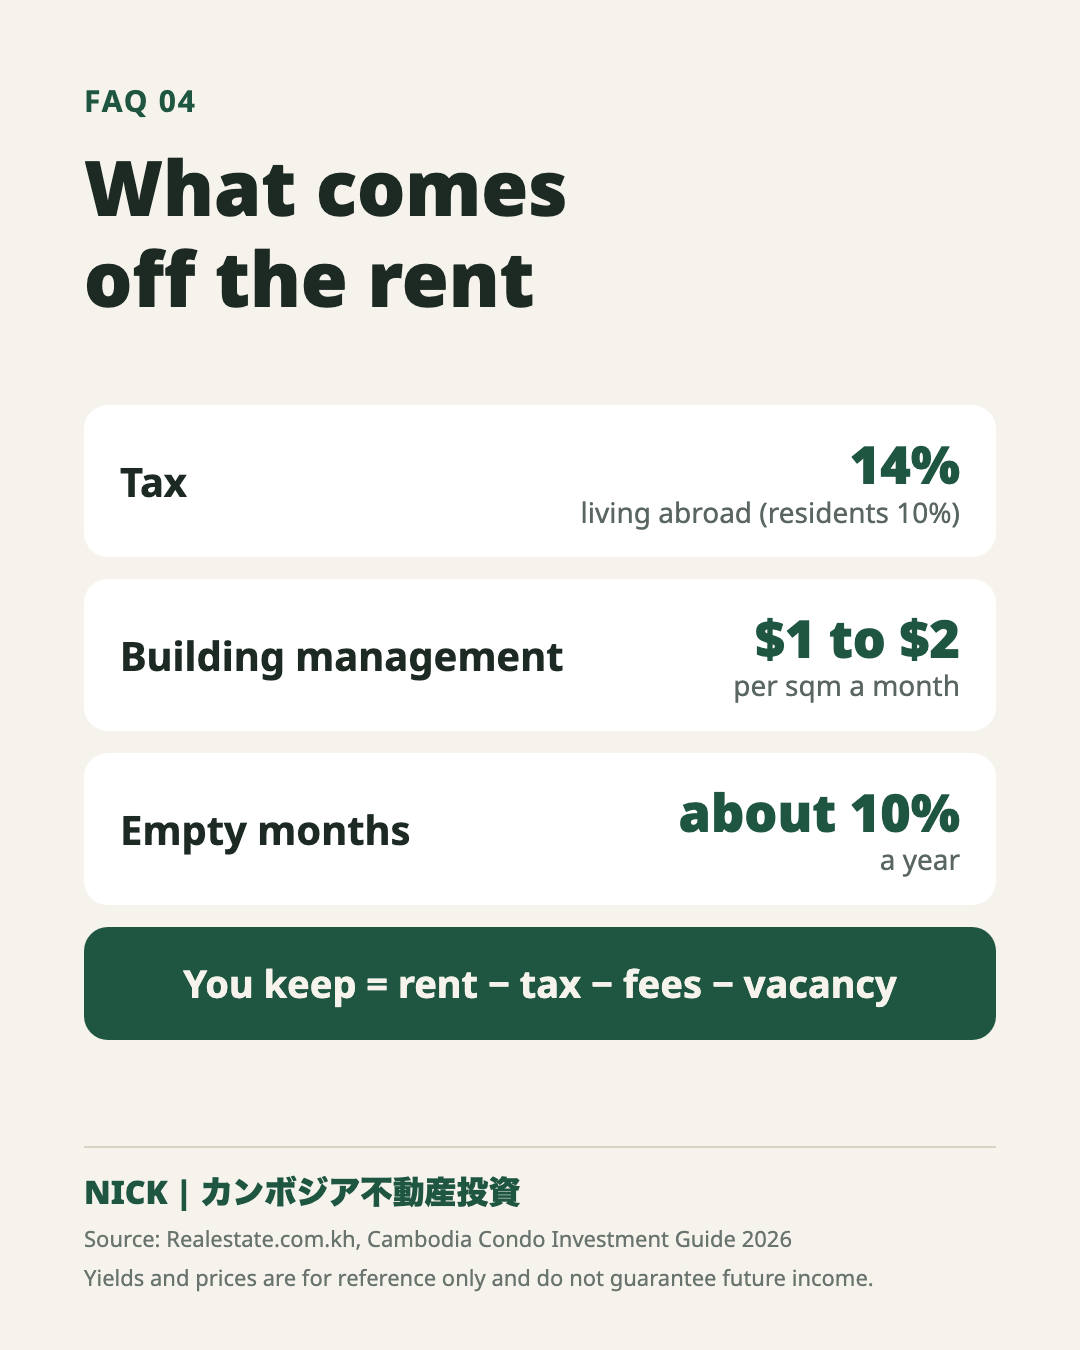
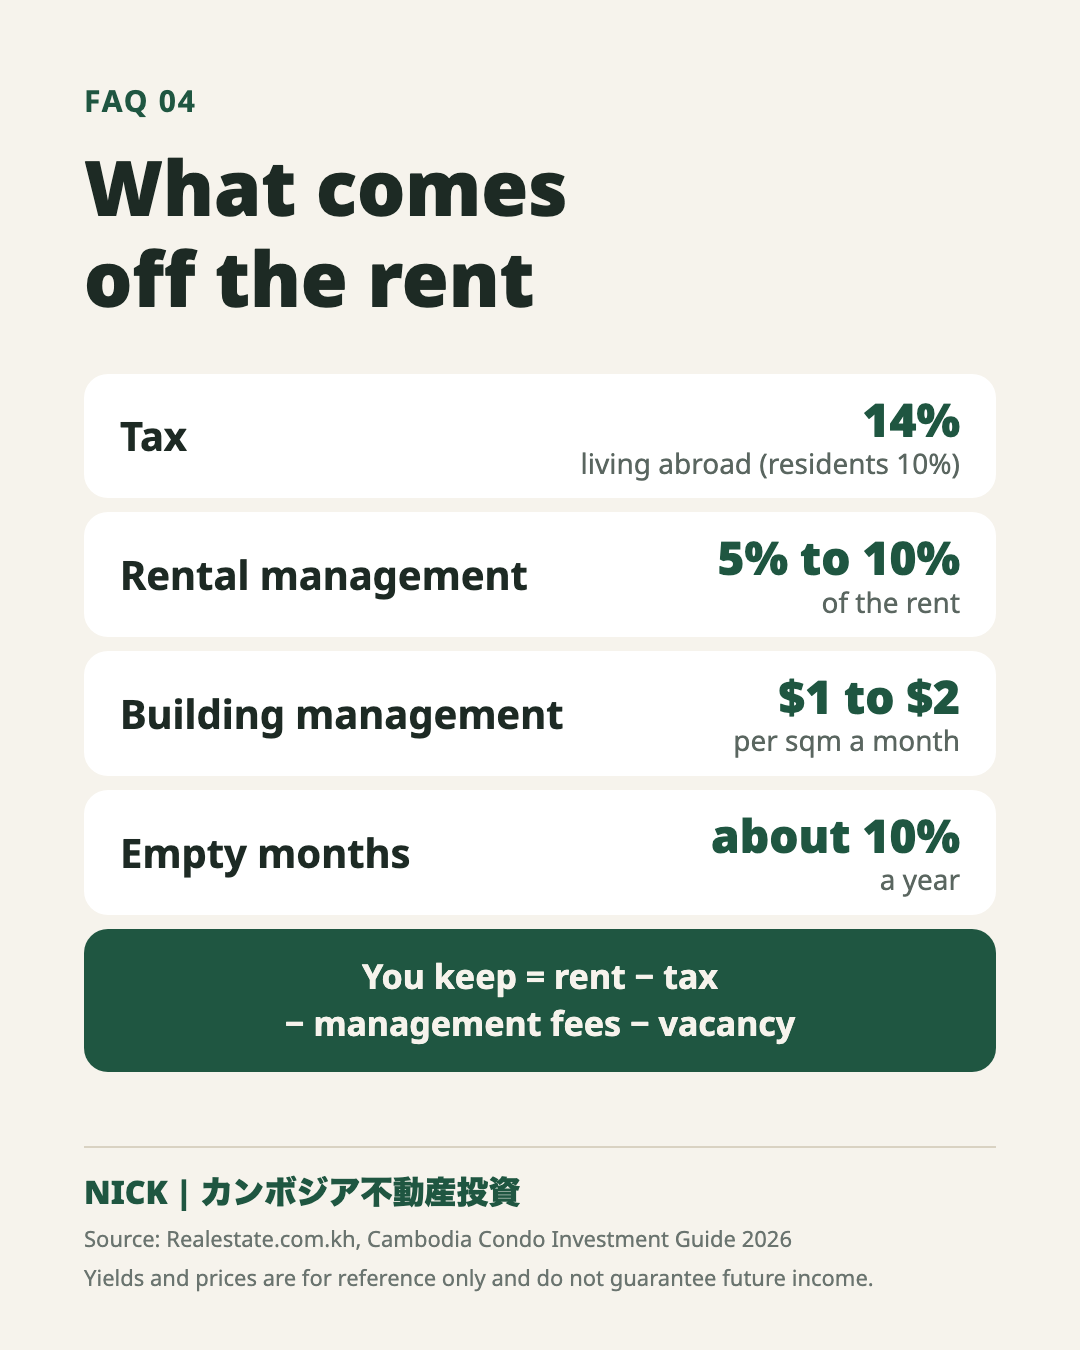
Bot FAQ matched to the Condo Investment Guide 2026: rental management 5% to 10%, property tax above about $25,000, capital gains tax from January 2027, lawyer from $500 (0.5% to 1%); /estimate says what it leaves out

diff --git a/telegram-bot-public/bot.js b/telegram-bot-public/bot.js
@@ -18,8 +18,8 @@ const MSG = {
   simHead: { jp: '<b>この物件と、似た条件の物件</b>', en: '<b>This unit and similar ones</b>', kh: '<b>អចលនទ្រព្យនេះ និងអចលនទ្រព្យស្រដៀងគ្នា</b>' },
   simNone: { jp: '似た条件の物件は、今はほかにありません。メインメニューから条件を変えて探せます。', en: 'No similar units right now. Use the main menu to search with other options.', kh: 'ឥឡូវនេះមិនទាន់មានអចលនទ្រព្យស្រដៀងគ្នាទេ។ សូមប្រើម៉ឺនុយមេដើម្បីស្វែងរកតាមជម្រើសផ្សេង។' },
   calcTwo: {
-    jp: (v) => '<b>試算結果</b>\nお送りいただいた数値のみに基づきます\n\n年間家賃: ' + v.rent + '\n表面利回り: ' + v.gross + '%\n手取り利回りの目安: ' + v.lo + '%から' + v.hi + '%\n\n手取りは、家賃から非居住者の源泉税14%と管理費5%から10%を引いた場合です。空室と修繕の費用は含まれません。',
-    en: (v) => '<b>Estimate</b>\nBased only on the numbers you sent\n\nYearly rent: ' + v.rent + '\nGross yield: ' + v.gross + '%\nNet yield, roughly: ' + v.lo + '% to ' + v.hi + '%\n\nNet means rent minus 14% non-resident tax and a 5% to 10% management fee. Vacancy and repairs are not included.',
+    jp: (v) => '<b>試算結果</b>\nお送りいただいた数値のみに基づきます\n\n年間家賃: ' + v.rent + '\n表面利回り: ' + v.gross + '%\n手取り利回りの目安: ' + v.lo + '%から' + v.hi + '%\n\n手取りは、家賃から非居住者の源泉税14%と賃貸管理費（家賃の5%から10%）を引いた場合です。建物の管理費、空室（年に約10%）、修繕の費用は含まれません。',
+    en: (v) => '<b>Estimate</b>\nBased only on the numbers you sent\n\nYearly rent: ' + v.rent + '\nGross yield: ' + v.gross + '%\nNet yield, roughly: ' + v.lo + '% to ' + v.hi + '%\n\nNet means rent minus 14% non-resident tax and rental management (5% to 10% of the rent). Building management, empty months (about 10% a year) and repairs are not included.',
     kh: (v) => '<b>លទ្ធផលប៉ាន់ស្មាន</b>\nផ្អែកលើលេខដែលអ្នកផ្ញើប៉ុណ្ណោះ\n\nថ្លៃជួលប្រចាំឆ្នាំ៖ ' + v.rent + '\nផលចំណេញដុល៖ ' + v.gross + '%\nផលចំណេញសុទ្ធប្រហែល៖ ' + v.lo + '% ដល់ ' + v.hi + '%\n\nសុទ្ធ គឺថ្លៃជួល ដកពន្ធ 14% សម្រាប់អ្នកមិនមែនមានលំនៅដ្ឋាន និងថ្លៃគ្រប់គ្រង 5% ដល់ 10%។ មិនរាប់បញ្ចូលការទំនេរ និងការជួសជុលទេ។',
   },
   calcBad: {

diff --git a/telegram-bot-public/tests/bot.test.js b/telegram-bot-public/tests/bot.test.js
@@ -96,7 +96,7 @@ const NICK = '353195979';
   });
   await t('two numbers give gross yield and a net range after 14% tax and 5 to 10% fees, with the limits stated', async () => {
     const r = rig(), me = r.U(7, 'en'); await r.say(me, '/estimate'); r.sent.length = 0; await r.say(me, '100000 700');
-    const x = r.lastTo(7).body.text; assert.ok(/Gross yield: 8\.4%/.test(x) && /6\.4% to 6\.8%/.test(x) && /Vacancy and repairs are not included/.test(x) && /for reference only/.test(x), x);
+    const x = r.lastTo(7).body.text; assert.ok(/Gross yield: 8\.4%/.test(x) && /6\.4% to 6\.8%/.test(x) && /rental management \(5% to 10% of the rent\)/.test(x) && /empty months \(about 10% a year\) and repairs are not included/.test(x) && /for reference only/.test(x), x);
   });
   await t('the FAQ shows its picture in Japanese and English, with the answer and buttons', async () => {
     const r = rig(), jp = r.U(31, 'ja'); await r.say(jp, '/start');
